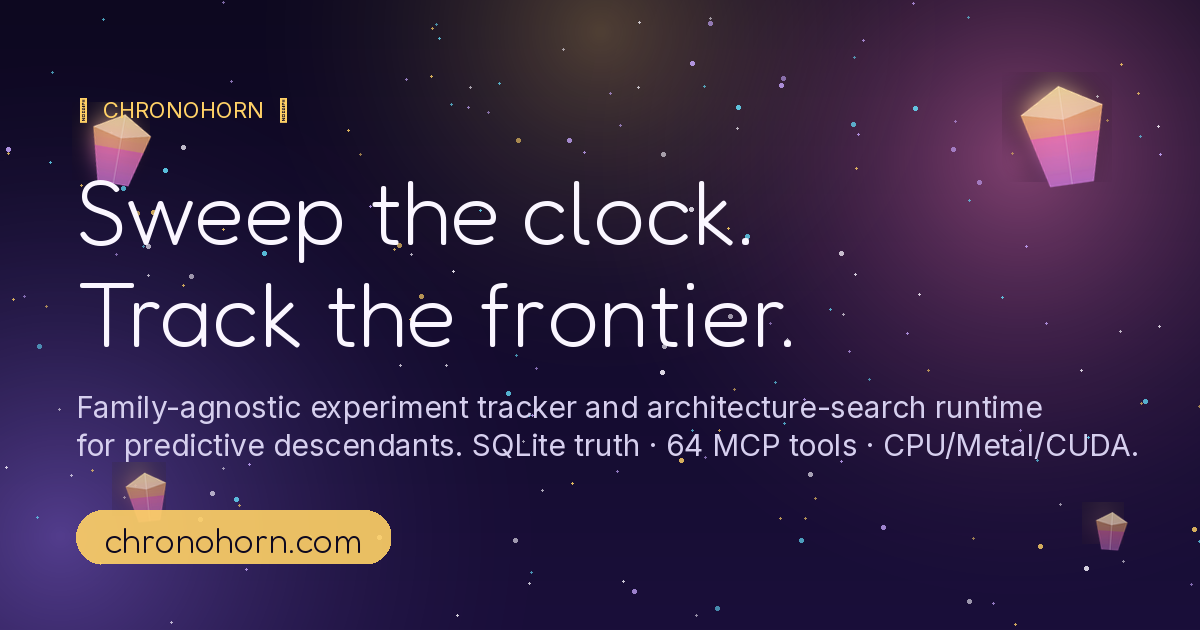
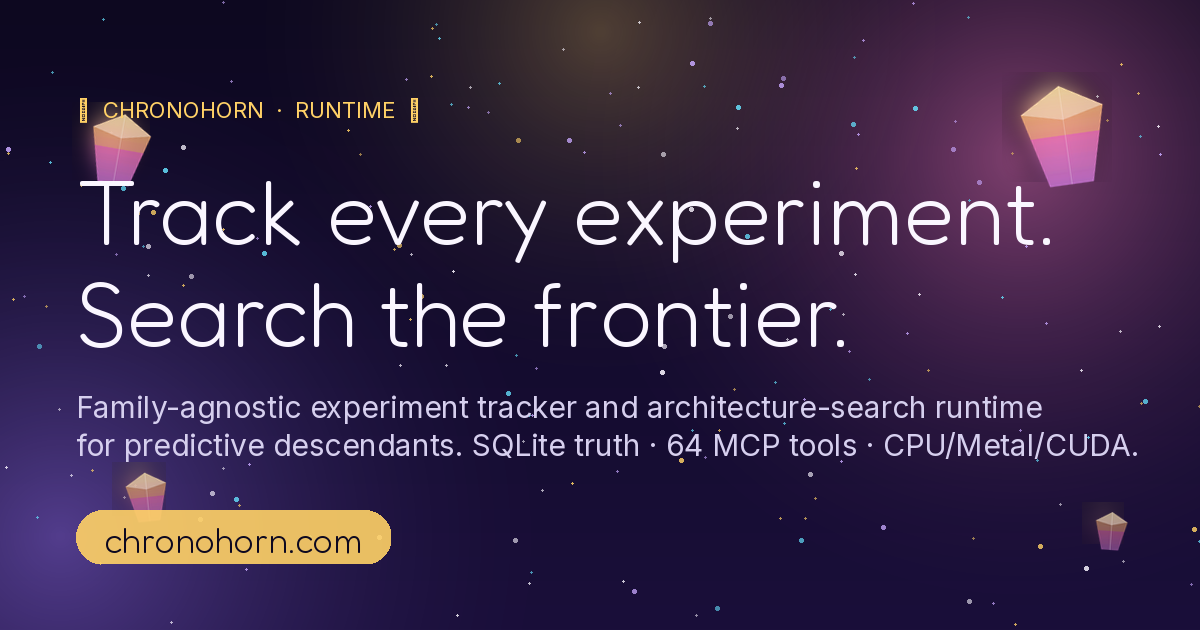
site: rewrite copy to focus on the project
Remove the Ohshima / Blinx / dream framing from all visible copy. The
visual style stays put — palette, gem motifs, ribbon flourishes, paraloop
animation are unchanged. Only the words change, so the page reads as a
runtime project rather than a thematic homage.

- Hero h1: "Track every experiment. Search the frontier." (was "Sweep the
  clock. Track the frontier.")
- Hero eyebrow: "runtime · replay · fleet · frontier control" (was
  "time-sweeper for predictive descendants")
- Hero lede now leads with the canonical pitch and lists the actual
  capabilities. Drops the Blinx + Ohshima reference paragraph.
- Sibling-project section: heading "Two repos. One direction of dependency."
  (was "Two halves of one stack"). Tile copy: kernel (decepticons) vs
  runtime (chronohorn) with technical descriptions, no chrome/dream
  rhetoric.
- Footer tagline: factual instead of metaphorical.
- 404 page: "page not found" eyebrow, plain factual lede.
- OG card: "Track every experiment." / "Search the frontier." chip text
  updated. Same palette + gem treatment.
- CHANGELOG, STYLE.md, source comments swept for residual flavor language.

CSS class names (.kin-chrome, .kin-dream) kept — they're internal style
identifiers, not copy.

Changed region(s): [[0.0617, 0.2714, 0.8633, 0.4222], [0.0617, 0.4524, 0.7092, 0.573], [0.2158, 0.1508, 0.37, 0.181]]

diff --git a/site/index.html b/site/index.html
@@ -22,7 +22,7 @@
 </head>
 <body>
 
-<!-- Inline SVG sprites: Blinx-style time crystals, NiGHTS ribbon-flourish divider, small heading gem -->
+<!-- Inline SVG sprites: faceted gem, ribbon-flourish divider, small heading marker -->
 <svg xmlns="http://www.w3.org/2000/svg" style="position:absolute;width:0;height:0;overflow:hidden" aria-hidden="true">
   <defs>
     <linearGradient id="crystal-grad" x1="0" y1="0" x2="1" y2="1">
@@ -77,7 +77,7 @@
 <main id="top">
 
 <section class="hero">
-  <!-- floating Blinx-style time crystals -->
+  <!-- floating faceted gems -->
   <svg class="crystal crystal-1" aria-hidden="true"><use href="#crystal"/></svg>
   <svg class="crystal crystal-2" aria-hidden="true"><use href="#crystal"/></svg>
   <svg class="crystal crystal-3" aria-hidden="true"><use href="#crystal"/></svg>
@@ -85,14 +85,13 @@
   <svg class="crystal crystal-5" aria-hidden="true"><use href="#crystal"/></svg>
   <div class="wrap">
     <div class="hero-text">
-      <p class="eyebrow">time-sweeper for predictive descendants</p>
-      <h1>Sweep the clock. Track the <em>frontier</em>.</h1>
+      <p class="eyebrow">runtime · replay · fleet · frontier control</p>
+      <h1>Track every experiment. Search the <em>frontier</em>.</h1>
       <p class="lede">
-        Chronohorn is a family-agnostic experiment tracker and architecture-search runtime — born from
-        the time-monsters of <a href="https://en.wikipedia.org/wiki/Blinx:_The_Time_Sweeper">Blinx's</a>
-        final boss, dressed in the dream-register of Naoto Ohshima.
-        It stores results in SQLite, analyzes saturation and frontiers, dispatches manifests across
-        CPU / Metal / CUDA backends, and hands the whole runtime to AI agents through MCP.
+        Chronohorn is a family-agnostic experiment tracker and architecture-search runtime
+        for predictive descendants. SQLite-backed truth, 64 MCP tools for AI-agent
+        integration, multi-backend fleet dispatch across CPU / Metal / CUDA, saturation
+        and forecast analysis, and a plug-in family adapter protocol.
       </p>
       <div class="cta">
         <a class="btn primary" href="#quickstart">Get started</a>
@@ -108,7 +107,7 @@
     </div>
     <div class="hero-art">
       <img src="assets/chronohorn.jpg" alt="Chronohorn" />
-      <!-- NiGHTS paraloop: a ribbon that draws a circle on load -->
+      <!-- ribbon loop traced around the portrait on load -->
       <svg class="paraloop" viewBox="0 0 240 240" aria-hidden="true">
         <defs>
           <linearGradient id="paraloop-grad" x1="0" y1="0" x2="1" y2="1">
@@ -125,7 +124,7 @@
   </div>
 </section>
 
-<!-- HUD-style stat strip — Blinx coin-counter aesthetic -->
+<!-- HUD-style stat strip -->
 <section class="hud" aria-label="At a glance">
   <div class="wrap">
     <ul class="hud-strip">
@@ -393,22 +392,22 @@ readouts      +   fleet
   </div>
 </section>
 
-<!-- The kindred: explicit chrome-vs-dream contrast with the sibling project -->
+<!-- The stack: kernel ↔ runtime -->
 <section id="kindred" class="band band-alt">
   <div class="wrap kindred">
-    <p class="eyebrow">the kindred</p>
-    <h2>Two halves of one stack</h2>
+    <p class="eyebrow">the stack</p>
+    <h2>Two repos. One direction of dependency.</h2>
     <div class="cols-2">
       <a class="kin-card kin-chrome" href="https://decepticons.win">
-        <div class="kin-tag">kernel · chrome</div>
+        <div class="kin-tag">kernel</div>
         <h3>decepticons</h3>
-        <p>The Michael-Bay half. Backend-neutral predictive primitives, substrates, readouts. Hard mechanical edges, the stuff the runtime stands on.</p>
+        <p>Backend-neutral kernel of predictive primitives — substrates, memory, gating, routing, readouts. Reusable mechanisms that downstream systems combine into trained models.</p>
         <span class="kin-link">decepticons.win →</span>
       </a>
       <a class="kin-card kin-dream" href="#top">
-        <div class="kin-tag">runtime · dream</div>
+        <div class="kin-tag">runtime</div>
         <h3>chronohorn</h3>
-        <p>The Naoto-Ohshima half. Time-sweeper for predictive descendants — tracks experiments, sweeps the frontier, hands the runtime to AI agents.</p>
+        <p>Family-agnostic experiment tracker and architecture-search runtime. Training, replay, fleet dispatch, MCP, observation. Imports decepticons; never the reverse.</p>
         <span class="kin-link">you are here ✦</span>
       </a>
     </div>
@@ -424,7 +423,7 @@ readouts      +   fleet
       <strong>chronohorn</strong> · <span class="version-chip">v0.1.1</span> · alpha · runtime
     </p>
     <p>© <span id="year"></span> Chronohorn contributors · MIT License</p>
-    <p class="muted small">The DB is the live truth — this page is just the dream that hangs over it.</p>
+    <p class="muted small">The DB is the live truth. This page is an entry point.</p>
   </div>
 </footer>
 

diff --git a/site/assets/style.css b/site/assets/style.css
@@ -1,9 +1,9 @@
-/* Chronohorn — Naoto Ohshima dream aesthetic.
-   Soft sunset-violet world, glowing time-sweeper motifs, rounded everything.
-   The visual opposite of decepticons.win's chrome-and-explosions register. */
+/* Chronohorn — public site styles.
+   Sunset-violet palette, rounded type, gold accent.
+   Designed to read as the runtime descendant in the decepticons → chronohorn → heinrich stack. */
 
 :root {
-  --night-1: #0d0820;       /* deepest dream sky */
+  --night-1: #0d0820;       /* deepest violet base */
   --night-2: #1a0f3a;
   --night-3: #25154d;
   --violet: #a07bff;
@@ -230,7 +230,7 @@ p.lede {
 /* Hero */
 .hero { padding: 96px 0 80px; position: relative; overflow: hidden; }
 
-/* Floating Blinx-style time crystals scattered through the hero */
+/* Floating faceted gems scattered through the hero */
 .crystal {
   position: absolute;
   pointer-events: none;
@@ -388,7 +388,7 @@ p.lede {
   .hero-art img { max-width: 260px; }
 }
 
-/* HUD stat strip — Blinx coin-counter aesthetic */
+/* HUD stat strip */
 .hud {
   padding: 30px 0 50px;
   position: relative;
@@ -617,7 +617,7 @@ footer .horn {
 /* Selection */
 ::selection { background: rgba(255, 209, 102, 0.35); color: var(--cream); }
 
-/* Kindred panel — explicit chrome-vs-dream contrast with the sibling project */
+/* Stack panel — sibling-project pairing for decepticons (kernel) and chronohorn (runtime) */
 .kindred .eyebrow { display: flex; }
 .kindred h2 { margin-bottom: 1.4em; }
 
@@ -653,7 +653,7 @@ footer .horn {
   font-size: 0.95rem;
 }
 
-/* Chrome half — decepticons. Hard angles, cold metallics, mechanical. */
+/* Decepticons tile — industrial / monospace, mirrors decepticons.win */
 .kin-chrome {
   background:
     linear-gradient(135deg, #1a1d24 0%, #2a2f3a 50%, #1a1d24 100%);
@@ -680,7 +680,7 @@ footer .horn {
 .kin-chrome .kin-link { color: #d4d8e0; }
 .kin-chrome:hover { border-color: #707888; box-shadow: 0 12px 32px rgba(0, 0, 0, 0.6); color: #d4d8e0; }
 
-/* Dream half — chronohorn. Soft, warm, dreamy. */
+/* Chronohorn tile — soft warm palette, mirrors this site */
 .kin-dream {
   background:
     linear-gradient(135deg, rgba(160, 123, 255, 0.18), rgba(255, 126, 193, 0.14) 50%, rgba(255, 209, 102, 0.16) 100%);

diff --git a/site/404.html b/site/404.html
@@ -4,7 +4,7 @@
   <meta charset="UTF-8" />
   <meta name="viewport" content="width=device-width, initial-scale=1.0" />
   <title>404 — Chronohorn</title>
-  <meta name="description" content="The page you're looking for is not in this dream." />
+  <meta name="description" content="Page not found on chronohorn.com." />
   <link rel="icon" href="/assets/chronohorn.jpg" />
   <link rel="preconnect" href="https://fonts.googleapis.com" />
   <link rel="preconnect" href="https://fonts.gstatic.com" crossorigin />
@@ -30,9 +30,9 @@
 </head>
 <body>
 <main class="lost">
-  <p class="eyebrow">a frontier untracked</p>
+  <p class="eyebrow">page not found</p>
   <h1>4 0 4</h1>
-  <p class="lede">The page you're looking for isn't in this dream. Maybe a stage shifted, maybe a clock skipped — the URL didn't resolve to anything we sweep.</p>
+  <p class="lede">The URL you requested didn't resolve to anything we ship. Try the home page, or open the source on GitHub.</p>
   <div class="cta">
     <a class="btn primary" href="/">Back to home</a>
     <a class="btn ghost" href="https://github.com/asuramaya/chronohorn">Open the source</a>

diff --git a/scripts/build_og.py b/scripts/build_og.py
@@ -1,7 +1,7 @@
 #!/usr/bin/env python3
-"""Generate site/assets/og.png — Naoto Ohshima dream sky aesthetic.
+"""Generate site/assets/og.png — chronohorn public OG card.
 
-1200×630, gold/pink/violet sunset, Blinx-style time crystals, Fredoka heading.
+1200×630, gold/pink/violet sunset gradient, faceted gem motifs, Fredoka heading.
 Run from anywhere — paths resolve relative to the repo root.
 
 Usage:
@@ -151,9 +151,9 @@ def main() -> None:
     body_font = ImageFont.truetype(str(fonts["Inter-500.ttf"]), 30)
     chip_font = ImageFont.truetype(str(fonts["Inter-500.ttf"]), 22)
 
-    draw.text((76, 96), "✦  CHRONOHORN  ✦", font=chip_font, fill=GOLD)
-    draw.text((76, 154), "Sweep the clock.", font=h_font, fill=CREAM)
-    draw.text((76, 256), "Track the frontier.", font=h_font, fill=CREAM)
+    draw.text((76, 96), "✦  CHRONOHORN  ·  RUNTIME  ✦", font=chip_font, fill=GOLD)
+    draw.text((76, 154), "Track every experiment.", font=h_font, fill=CREAM)
+    draw.text((76, 256), "Search the frontier.", font=h_font, fill=CREAM)
     draw.text(
         (76, 388),
         "Family-agnostic experiment tracker and architecture-search runtime",

diff --git a/STYLE.md b/STYLE.md
@@ -67,9 +67,9 @@ When any of these change, update STYLE.md first, then propagate.
   *"shared decepticons kernel"* / *"the decepticons kernel"* /
   *"built on the shared decepticons kernel"*. Always link to
   <https://github.com/asuramaya/decepticons> on first mention.
-- **Site only**: the "kindred" panel is allowed to use the chrome-vs-dream
-  framing because it's an explicit visual rhetorical device. Don't let that
-  language travel to other surfaces.
+- **Site only**: the sibling-project panel is allowed to use slightly more
+  expressive phrasing because it's a deliberate visual pairing. Keep it
+  technical — kernel vs runtime, not metaphor.
 
 ## Don't
 

diff --git a/CHANGELOG.md b/CHANGELOG.md
@@ -26,9 +26,8 @@ to follow [Semantic Versioning](https://semver.org/).
 
 ### Added
 - GitHub Pages site at [chronohorn.com](https://chronohorn.com/) with deploy
-  workflow. Naoto-Ohshima dream aesthetic — Blinx time-crystal motifs,
-  NiGHTS paraloop animation, kindred panel pairing chronohorn with
-  decepticons.
+  workflow. Crystal motifs, animated hero portrait, sibling-project panel
+  pairing chronohorn with decepticons.
 - PyPI release workflow using Trusted Publishing on tag push.
 - Project URL metadata: documentation, issues, changelog.
 
